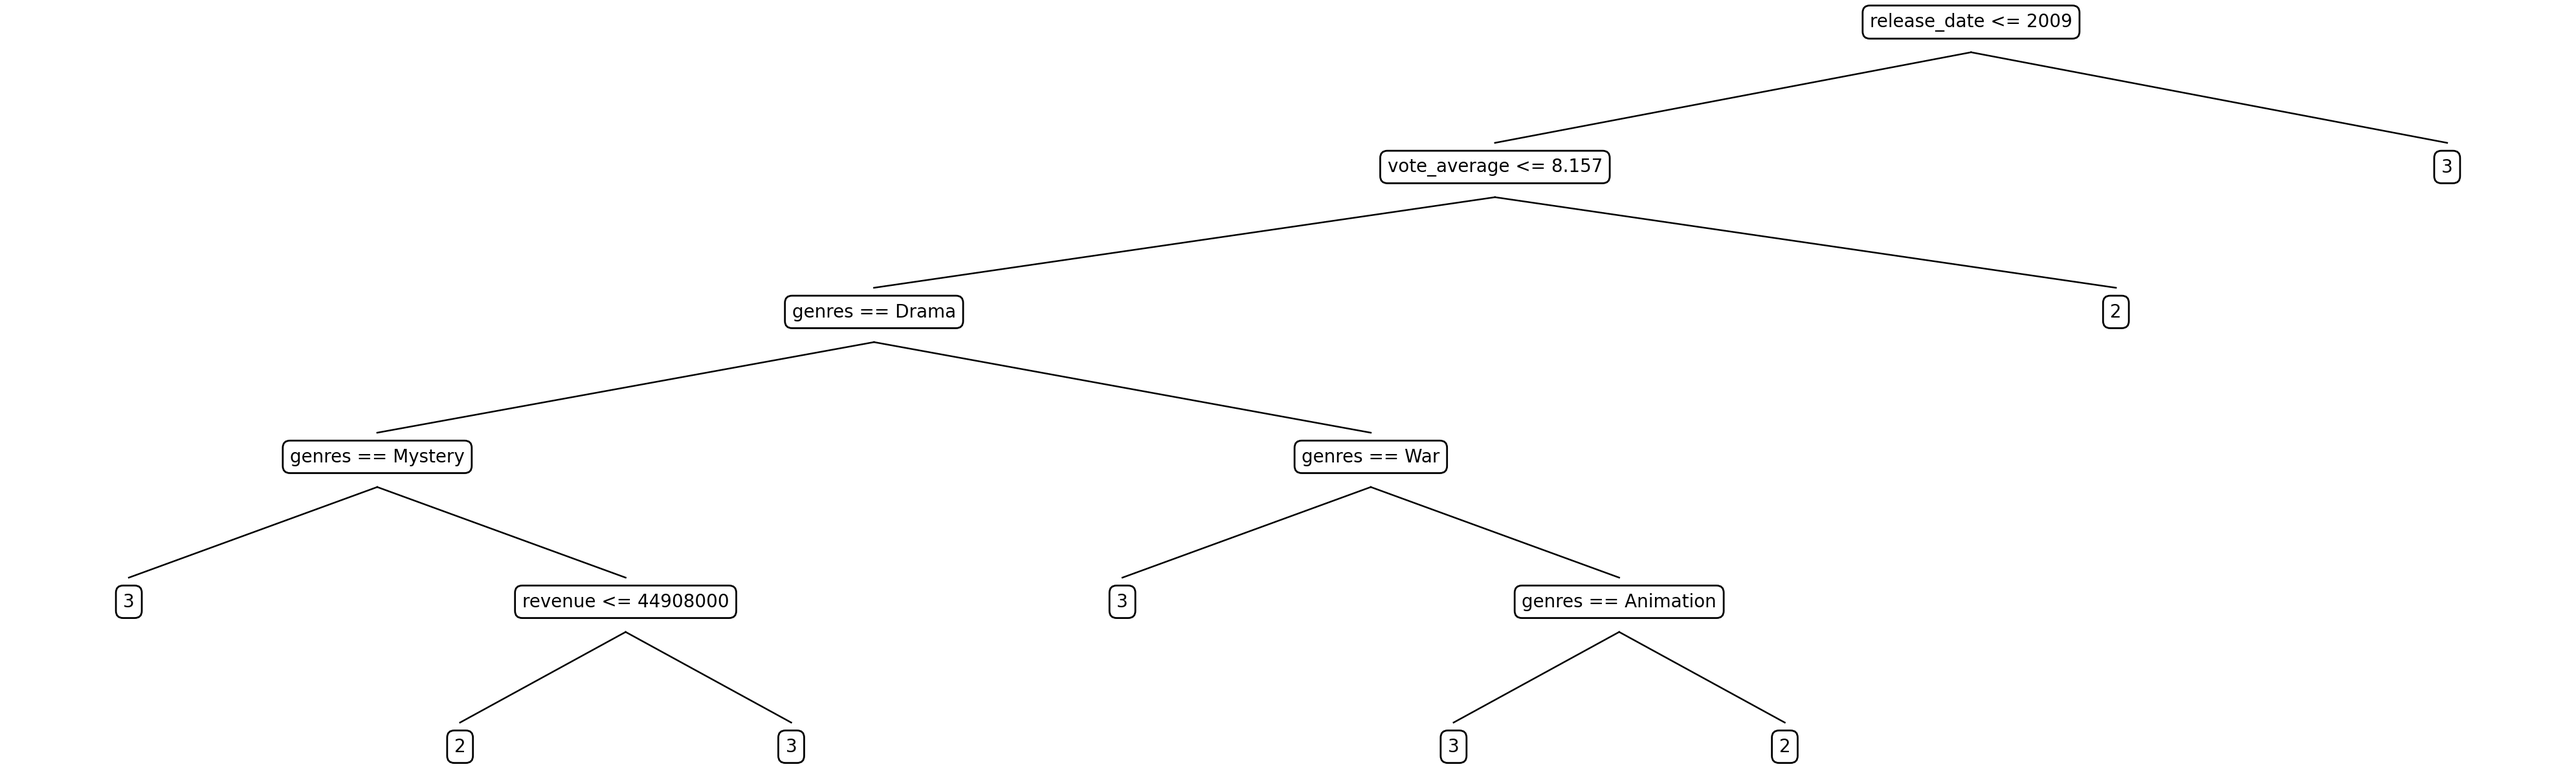
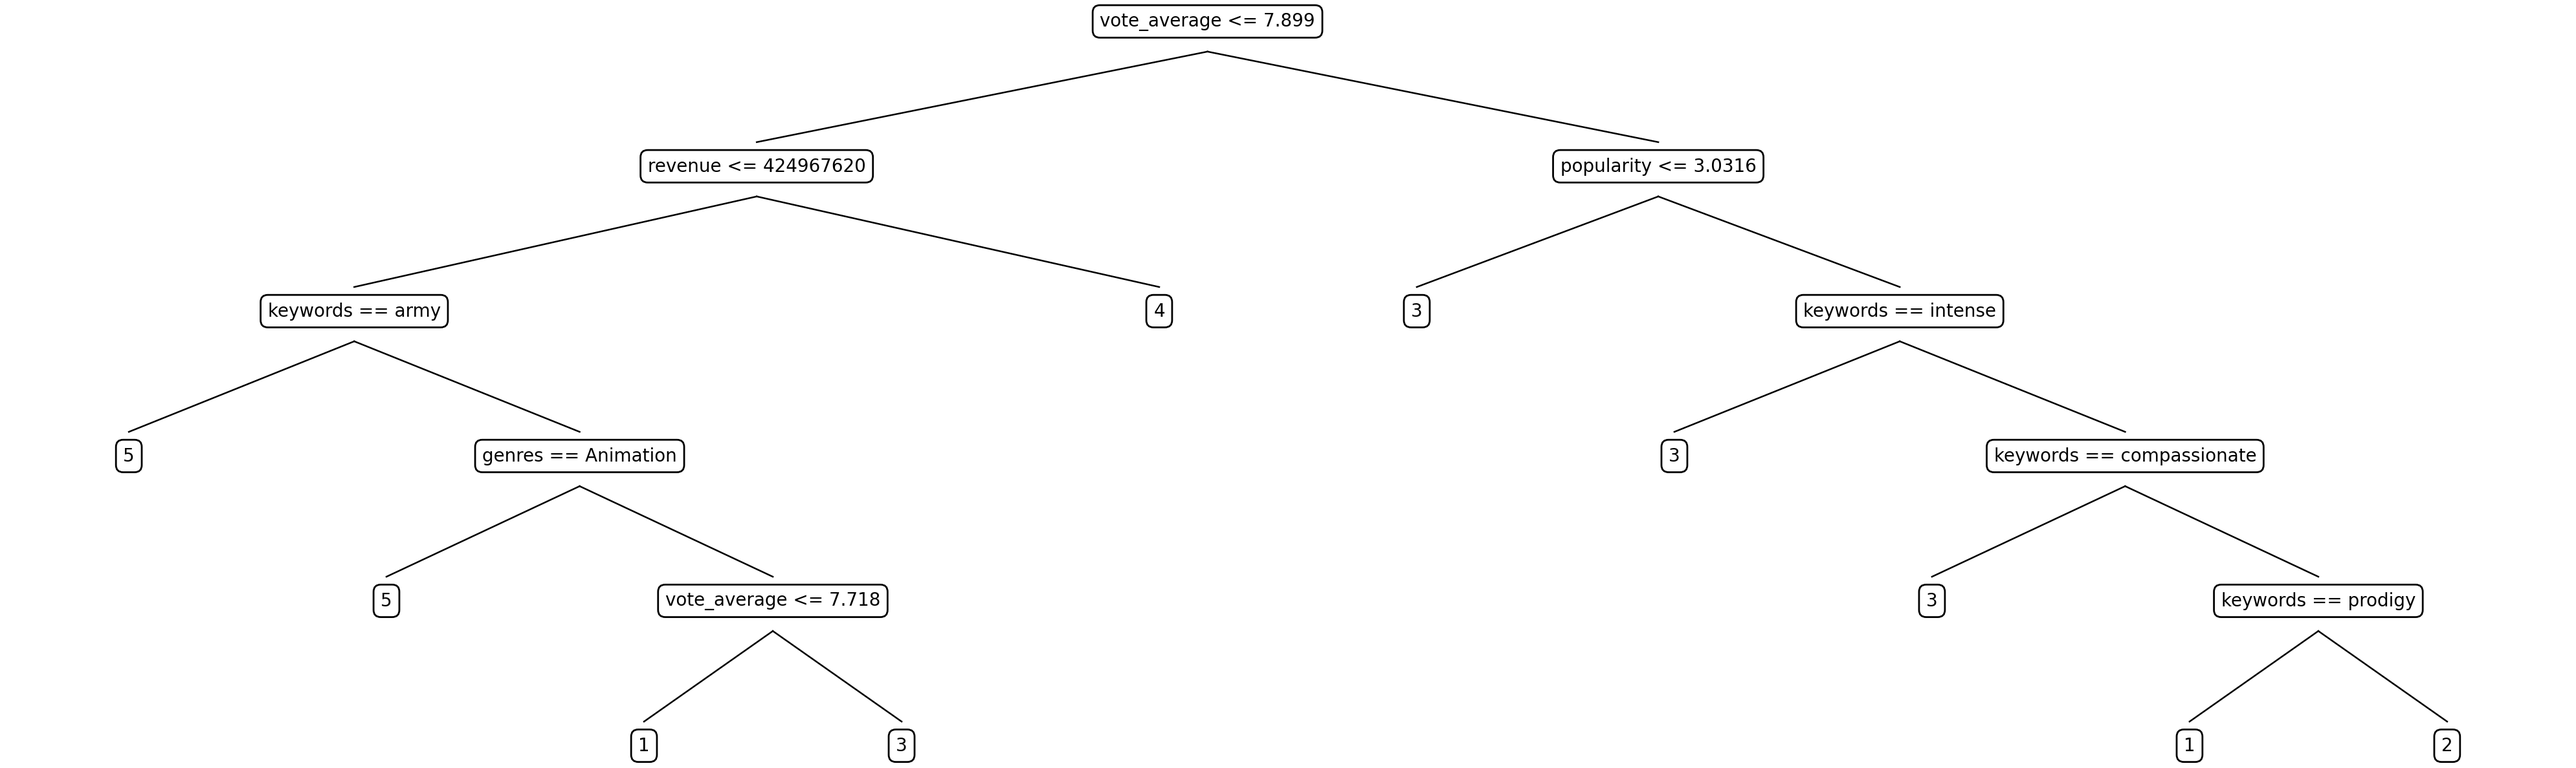
Generate better tree.png

diff --git a/UM-ZAD2-DECISION-TREE/main.py b/UM-ZAD2-DECISION-TREE/main.py
@@ -57,7 +57,7 @@ def experiment(is_forest=False):
     logging.info(f"Accuracy per person (mean): {np.mean(accuracy_per_person):.2f},  soft_accuracy per person (mean): {np.mean(soft_accuracy_per_person):.2f}")
 
     if not is_forest:
-        draw_tree_png(classifier_per_person[169].root, filename=f"tree.png")
+        draw_tree_png(classifier_per_person[1102].root, filename=f"tree.png")
 
     filename = f"submission_{classifier_type}"
     RatingPrediction('../data/task.csv').submit_ratings_predictions(classifier_per_person, features, filename)
@@ -73,7 +73,7 @@ if __name__ == '__main__':
     accuracy_per_person = []
     soft_accuracy_per_person = []
 
-    person_data_list = [(person, ratings, features) for person, ratings in ratings_per_person.items()]
+    person_data_list = [(person, ratings, features) for person, ratings in ratings_per_person.items() if person == 1102]
 
     experiment(False)  # tree
     # experiment(True)  # forest
